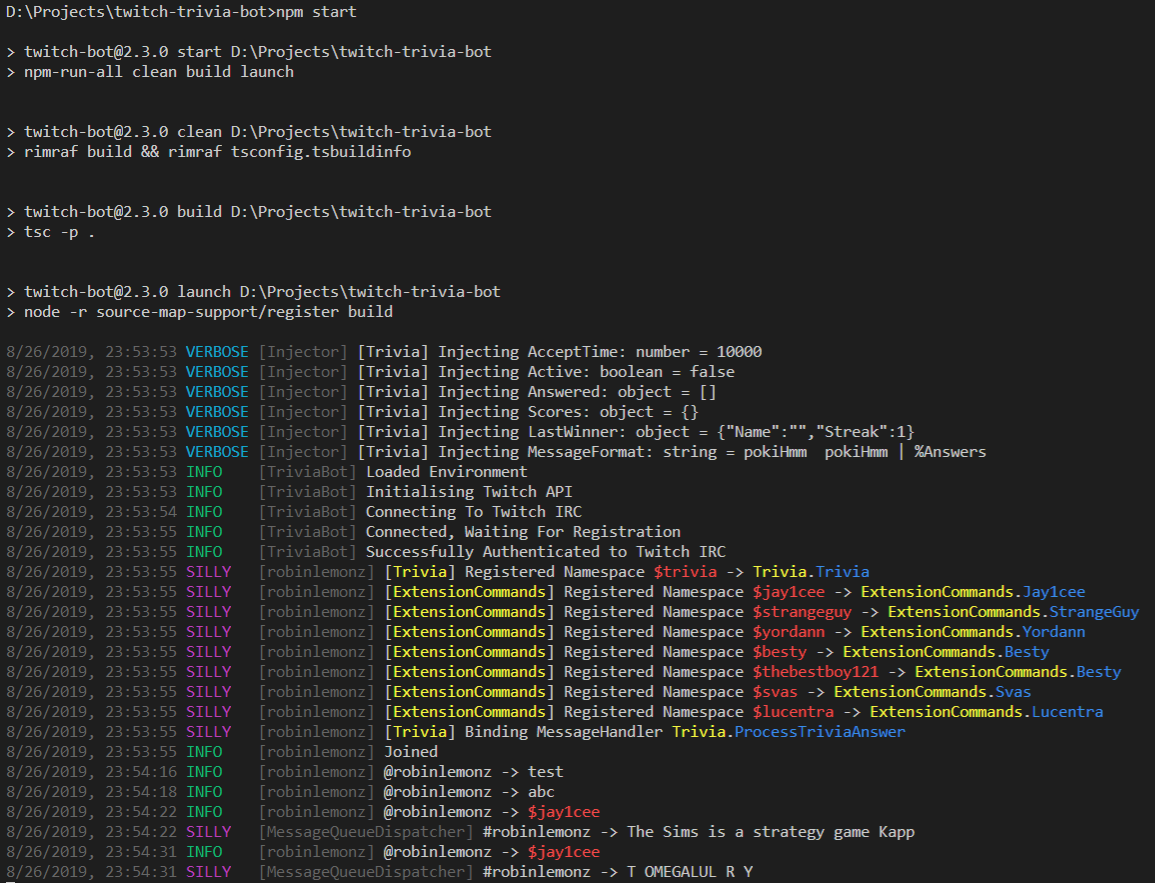
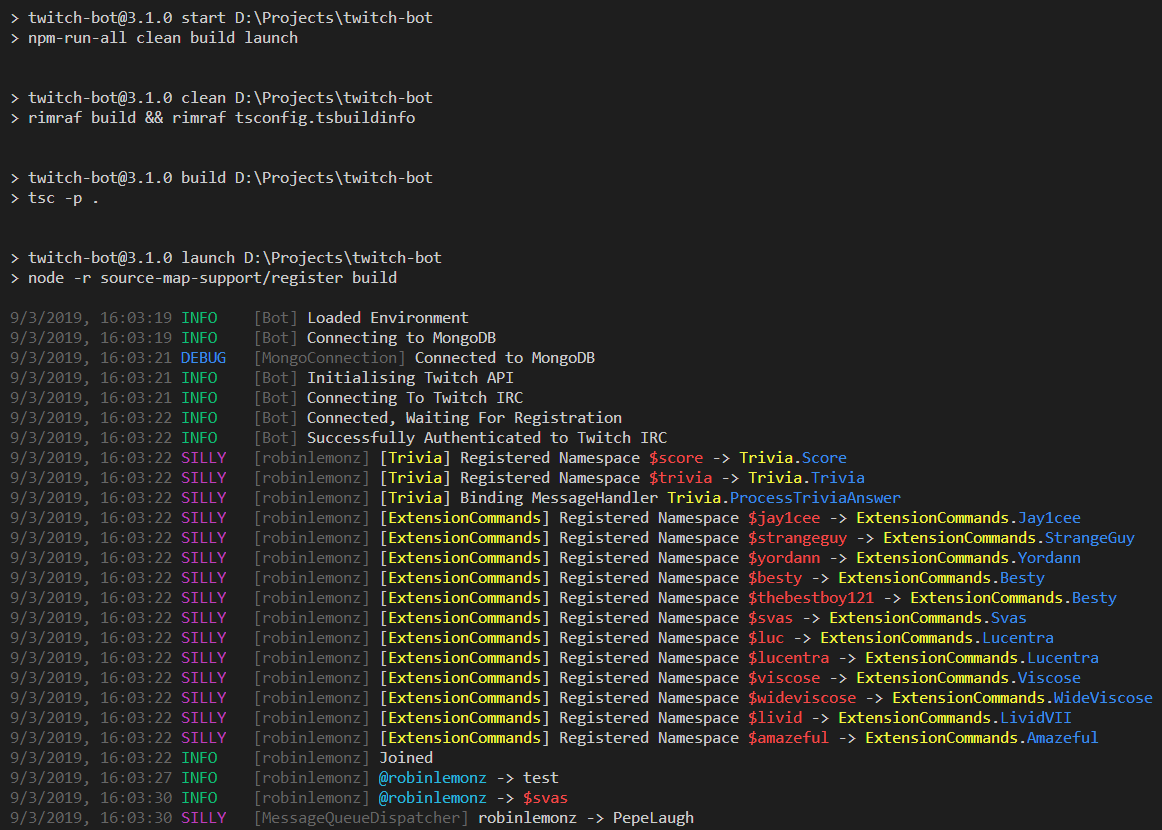
Added MongoDB Support

Changed region(s): [[0.0, 0.3012, 0.9662, 1.0], [0.0, 0.0, 0.4052, 0.1807], [0.0, 0.2108, 0.4052, 0.2711]]

diff --git a/src/Integrations/Trivia/Trivia.service.ts b/src/Integrations/Trivia/Trivia.service.ts
@@ -1,13 +1,15 @@
 import 'reflect-metadata';
 
-import { promises as fs } from 'fs';
+/* eslint-disable-next-line */
+import Logger, { Levels } from '@robinlemon/logger';
 
 import MessageQueueDispatcher from '../../Classes/MessageQueueDispatcher';
 import QuestionCoordinator, { EQuestionCategory, RetryQuestionApi } from '../../Classes/QuestionCoordinator';
-import Command from '../../Decorators/Command';
+import Command, { CommandType } from '../../Decorators/Command';
 import MessageHandler from '../../Decorators/MessageHandler';
 import Common from '../../Utils/Common';
 import Integration from '../index';
+import TriviaUser from './Trivia.model';
 
 type TriviaAnswer = 'a' | 'b' | 'c' | 'd';
 
@@ -28,9 +30,9 @@ class Trivia extends Integration {
         Streak: number;
     } = { Name: '', Streak: 1 };
 
-    protected MessageFormat = 'pokiHmm %Question% pokiHmm | %Answers%';
+    protected MessageFormat = 'monkaHmm %Question% monkaHmm | %Answers%';
 
-    public constructor(protected ChannelName: string, protected MessageHandler: MessageQueueDispatcher) {
+    public constructor(protected ChannelName: string, protected MessageHandler: MessageQueueDispatcher, protected Logger: Logger) {
         super();
     }
 
@@ -39,11 +41,31 @@ class Trivia extends Integration {
     }
 
     @Command({
+        Identifiers: ['score'],
+        IncludeProtoNameAsIdentifier: false,
+        Subscriber: true,
+    })
+    public Score: CommandType = async (_Context, Username) => {
+        try {
+            const Player = await TriviaUser.findOne({ Username });
+
+            if (Player !== null)
+                this.MessageHandler.Send({
+                    Channel: this.ChannelName,
+                    Message: `@${Username} is on ${Player.Score} points! ${Player.Score > 0 ? 'FeelsOkayMan' : 'FeelsBadMan'} Clap`,
+                });
+            else this.MessageHandler.Send({ Channel: this.ChannelName, Message: `@${Username} I couldn't find your score FeelsBadMan` });
+        } catch (Err) {
+            this.Logger.log(Err, Levels.ERROR);
+        }
+    };
+
+    @Command({
         Identifiers: ['trivia'],
         IncludeProtoNameAsIdentifier: false,
         Subscriber: true,
     })
-    public Trivia = async () => {
+    public Trivia: CommandType = async (_Context, _User) => {
         if (this.Active === true) return;
 
         this.Active = true;
@@ -114,8 +136,6 @@ class Trivia extends Integration {
 
     @MessageHandler()
     public ProcessTriviaAnswer = async (User: string, Message: string) => {
-        await fs.writeFile('test.json', JSON.stringify(this, Common.CircularReplacer(), 4));
-
         if (
             this.Active === false ||
             'abcd'.indexOf(Message.toLocaleLowerCase()) === -1 ||
@@ -165,18 +185,39 @@ class Trivia extends Integration {
                 Points += 200;
             }
 
-            this.UpdateScore(User, Points);
+            const NewPoints = await this.UpdateScore(User, Points);
 
-            this.MessageHandler.Send({
-                Channel: this.ChannelName,
-                Message: `@${User} gets ${Points} points${StreakMessage}! You are now on ${this.Scores[User]} points! The answer was ${this.CorrectLetter}. ${this.CorrectAnswer}!`,
-            });
+            if (NewPoints === undefined) {
+                this.MessageHandler.Send({
+                    Channel: this.ChannelName,
+                    Message: `@${User} gets ${Points} points${StreakMessage}! The answer was ${this.CorrectLetter}. ${this.CorrectAnswer}! There was an internal error updating your score profile though FeelsBadMan`,
+                });
+            } else
+                this.MessageHandler.Send({
+                    Channel: this.ChannelName,
+                    Message: `@${User} gets ${Points} points${StreakMessage}! You are now on ${NewPoints} points! The answer was ${this.CorrectLetter}. ${this.CorrectAnswer}!`,
+                });
         } else this.UpdateScore(User, -50);
     };
 
-    public UpdateScore(User: string, Amount: number) {
-        if (typeof this.Scores[User] === 'undefined') this.Scores[User] = Amount;
-        else this.Scores[User] = this.Scores[User] + Amount;
+    private async UpdateScore(Username: string, Amount: number): Promise<undefined | number> {
+        try {
+            const Player = await TriviaUser.findOneAndUpdate(
+                { Username },
+                { Username },
+                {
+                    upsert: true,
+                    new: true,
+                    setDefaultsOnInsert: true,
+                },
+            );
+
+            await Player.UpdateScore(Amount);
+            return Player.Score + Amount;
+        } catch (Err) {
+            this.Logger.log(Err, Levels.ERROR);
+            return undefined;
+        }
     }
 }
 

diff --git a/src/Bot.ts b/src/Bot.ts
@@ -1,11 +1,13 @@
 import Logger from '@robinlemon/logger';
 import Bluebird from 'bluebird';
 import * as fs from 'fs-extra';
+import Path from 'path';
 import TwitchClient from 'twitch';
 import ChatClient from 'twitch-chat-client';
 
-import Channel from './Channel';
+import Channel from './Classes/Channel';
 import MessageQueueDispatcher from './Classes/MessageQueueDispatcher';
+import MongoConnection from './Classes/MongoConnection';
 import { IntegrationList } from './Integrations';
 import { FuncParams, ITokenResponse, ITokenSerialised } from './Utils/Common';
 import { SchemaType } from './Utils/Schema';
@@ -14,8 +16,10 @@ export default class Bot {
     private TwitchClient: TwitchClient;
     private ChatClient: ChatClient;
     private MessageClient: MessageQueueDispatcher;
+    private MongoConnection: MongoConnection;
 
     private Channels = new Map<string, Channel>();
+    private TokenPath: string;
     private TokenInfo: ITokenSerialised;
 
     private Logger = new Logger(this.constructor.name);
@@ -27,8 +31,14 @@ export default class Bot {
             .map(k => k.trim().toLocaleLowerCase())
             .forEach(ChannelName => this.Channels.set(ChannelName, null));
 
+        this.MongoConnection = new MongoConnection(Environment.MongoDBConnectionString);
+
+        this.Logger.log('Connecting to MongoDB');
+        await this.MongoConnection.Initialise();
+
         this.Logger.log('Initialising Twitch API');
-        this.TokenInfo = JSON.parse(await fs.readFile('./tokens.json', 'UTF-8'));
+        this.TokenPath = Path.join(__dirname, '..', Environment.TokenFile);
+        this.TokenInfo = JSON.parse(await fs.readFile(this.TokenPath, 'UTF-8'));
         this.TwitchClient = await TwitchClient.withCredentials(Environment.ClientID, this.TokenInfo.accessToken, undefined, {
             clientSecret: Environment.ClientSecret,
             refreshToken: this.TokenInfo.refreshToken,
@@ -46,7 +56,7 @@ export default class Bot {
         this.Logger.log('Refreshed OAuth Token');
 
         await fs.writeFile(
-            './tokens.json',
+            this.TokenPath,
             JSON.stringify(
                 {
                     accessToken,
@@ -65,7 +75,7 @@ export default class Bot {
     private CreateChannel = (ChannelName: string) => {
         const Instance = new Channel(ChannelName);
 
-        for (const Integration of IntegrationList) Instance.RegisterIntegration(new Integration(ChannelName, this.MessageClient));
+        for (const Integration of IntegrationList) Instance.RegisterIntegration(new Integration(ChannelName, this.MessageClient, Instance.GetLogger()));
         return Instance;
     };
 
@@ -89,15 +99,14 @@ export default class Bot {
             async Channel => {
                 await this.ChatClient.join(Channel);
 
-                this.Logger.SetName(Channel.slice(1).toLowerCase());
+                this.Logger.SetName(this.Channels.get(Channel).GetDisplayName());
                 this.Logger.log('Joined');
                 this.Logger.SetName(this.constructor.name);
             },
             { concurrency: 10 },
         );
 
-    private PrivateMessageHandler: FuncParams<ChatClient, 'onPrivmsg'> = async (Channel, User, Message, _Raw) => {
-        if (this.Channels.has(Channel) === false) return;
-        else this.Channels.get(Channel).OnMessage(User, Message, _Raw);
+    private PrivateMessageHandler: FuncParams<ChatClient, 'onPrivmsg'> = (Channel, User, Message, Raw) => {
+        if (this.Channels.has(Channel) === true) this.Channels.get(Channel).OnMessage(User, Message, Raw);
     };
 }

diff --git a/src/Integrations/ExtensionCommands/ExtensionCommands.service.ts b/src/Integrations/ExtensionCommands/ExtensionCommands.service.ts
@@ -1,12 +1,14 @@
 import 'reflect-metadata';
 
+import Logger from '@robinlemon/logger';
+
 import MessageQueueDispatcher from '../../Classes/MessageQueueDispatcher';
 import Command, { CommandType } from '../../Decorators/Command';
 import Common from '../../Utils/Common';
 import Integration from '../index';
 
 class ExtensionCommands extends Integration {
-    public constructor(protected ChannelName: string, protected MessageHandler: MessageQueueDispatcher) {
+    public constructor(protected ChannelName: string, protected MessageHandler: MessageQueueDispatcher, protected Logger: Logger) {
         super();
     }
 
@@ -90,7 +92,7 @@ class ExtensionCommands extends Integration {
     };
 
     @Command({
-        Identifiers: ['lucentra'],
+        Identifiers: ['luc', 'lucentra'],
         IncludeProtoNameAsIdentifier: false,
         Subscriber: true,
         CtxCreator: () => ({
@@ -143,6 +145,21 @@ class ExtensionCommands extends Integration {
         }),
     })
     public LividVII: CommandType = (Context, _User) => {
+        this.MessageHandler.Send({
+            Channel: this.ChannelName,
+            Message: (Context.Iterator as IterableIterator<string>).next().value,
+        });
+    };
+
+    @Command({
+        Identifiers: ['amazeful'],
+        IncludeProtoNameAsIdentifier: false,
+        Subscriber: true,
+        CtxCreator: () => ({
+            Iterator: Common.CreateNonRepeatingRandomArrayIterator(['5Head Idk']),
+        }),
+    })
+    public Amazeful: CommandType = (Context, _User) => {
         this.MessageHandler.Send({
             Channel: this.ChannelName,
             Message: (Context.Iterator as IterableIterator<string>).next().value,

diff --git a/src/Classes/Channel.ts b/src/Classes/Channel.ts
@@ -4,12 +4,12 @@ import Logger, { Levels } from '@robinlemon/logger';
 import Chalk from 'chalk';
 import ChatClient, { ChatUser } from 'twitch-chat-client';
 
-import PermissionMultiplexer, { EPermissionStatus } from './Classes/PermissionMultiplexer';
-import { CommandType, ContextTransformer, ICommand, ITransformOptions } from './Decorators/Command';
-import { IMessageHandlerMeta, MessageHandlerType } from './Decorators/MessageHandler';
+import { CommandType, ContextTransformer, ICommand, ITransformOptions } from '../Decorators/Command';
+import { IMessageHandlerMeta, MessageHandlerType } from '../Decorators/MessageHandler';
 // eslint-disable-next-line
-import { IntegrationList } from './Integrations';
-import { FuncParams, RemoveFirstParam } from './Utils/Common';
+import { IntegrationList } from '../Integrations';
+import { FuncParams, RemoveFirstParam } from '../Utils/Common';
+import PermissionMultiplexer, { EPermissionStatus } from './PermissionMultiplexer';
 
 export default class Channel {
     private Logger = new Logger();
@@ -24,6 +24,9 @@ export default class Channel {
         this.DisplayName = ChannelName.slice(1).toLowerCase();
         this.Logger.SetName(this.DisplayName);
     }
+
+    public GetDisplayName = (): string => this.DisplayName;
+    public GetLogger = (): Logger => this.Logger;
 
     public RegisterIntegration<T extends (typeof IntegrationList)[number]>(Integration: InstanceType<T>) {
         const InstanceMethods = Object.getOwnPropertyNames(Integration).filter(

diff --git a/src/Classes/MessageQueueDispatcher.ts b/src/Classes/MessageQueueDispatcher.ts
@@ -22,16 +22,11 @@ export abstract class DispatchClient {
 export default class MessageQueueDispatcher {
     private Logger = new Logger(this.constructor.name);
 
-    private MessageClient: ChatClient;
-
     private Queue: IQueueEntry[] = [];
     private LastSelfMessage: number = 0;
-
     private NextDispatch!: NodeJS.Timeout;
 
-    public constructor(MessageClient: ChatClient) {
-        this.MessageClient = MessageClient;
-    }
+    public constructor(private MessageClient: ChatClient) {}
 
     public Send = (Options: IQueueRequest) => {
         const { AwaitFn, Resolve } = this.GenerateDispatchAwaiter();
@@ -42,7 +37,6 @@ export default class MessageQueueDispatcher {
     };
 
     public DetectedSelfMessage = () => (this.LastSelfMessage = Date.now());
-
     public GetDispatchQueueLength = () => this.Queue.length;
 
     private GenerateDispatchAwaiter = () => {
@@ -61,7 +55,7 @@ export default class MessageQueueDispatcher {
         }
 
         const { Channel, Message, Type, Resolve } = this.Queue[0];
-        const Delay = (Type === undefined ? 1000 : 10000) - this.TimeDifference(this.LastSelfMessage);
+        const Delay = (Type === undefined ? 3000 : 10000) - this.TimeDifference(this.LastSelfMessage);
 
         if (Message.length > 500) {
             this.Logger.log(`Message Too Long: Received ${Message.length} Characters`, Levels.ERROR);

diff --git a/src/Classes/MongoConnection.ts b/src/Classes/MongoConnection.ts
@@ -1,0 +1,42 @@
+import Logger, { Levels } from '@robinlemon/logger';
+import { MongoError } from 'mongodb';
+import Mongoose from 'mongoose';
+
+export default class MongoConnection {
+    private Logger = new Logger(this.constructor.name, undefined, Levels.ERROR);
+
+    public constructor(private ConnectionString: string) {}
+
+    public Initialise = async () => {
+        await this.Connect();
+
+        Mongoose.connection.on('error', (Err: MongoError) => {
+            this.Logger.log(Err);
+        });
+
+        Mongoose.connection.on('timeout', (Err: MongoError) => {
+            this.Logger.log(Err);
+            this.Connect();
+        });
+
+        Mongoose.connection.on('close', (Err: MongoError) => {
+            this.Logger.log(Err);
+            this.Connect();
+        });
+    };
+
+    private Connect = async (): Promise<void> => {
+        try {
+            await Mongoose.connect(this.ConnectionString, {
+                useNewUrlParser: true,
+                autoReconnect: true,
+                useFindAndModify: false,
+                useCreateIndex: true,
+            });
+
+            this.Logger.log('Connected to MongoDB', Levels.DEBUG);
+        } catch (Err) {
+            this.Logger.log(Err);
+        }
+    };
+}

diff --git a/src/Integrations/index.ts b/src/Integrations/index.ts
@@ -1,13 +1,15 @@
+import Logger from '@robinlemon/logger';
+
 import MessageClient from '../Classes/MessageQueueDispatcher';
 
 export default abstract class Integration {
     protected abstract ChannelName: string;
     protected abstract MessageHandler: MessageClient;
+    protected abstract Logger: Logger;
 
     public abstract get Identifier(): string;
 }
 
-//import BasicCommandMapping from './BasicCommandMapping';
 import ExtensionCommands from './ExtensionCommands';
 import Trivia from './Trivia';
 

diff --git a/src/Utils/Schema.ts b/src/Utils/Schema.ts
@@ -19,6 +19,10 @@ const Schema = Joi.object().keys({
     TokenFile: Joi.string()
         .default('./tokens.json')
         .description('A file used to store active OAuth access tokens.'),
+    MongoDBConnectionString: Joi.string()
+        .required()
+        .regex(/^mongodb\+srv:\/\/(?:(?:(\w+)?:(\w+)?@)|:?@?)((?:[\w.-])+)(?::(\d+))?(?:\/([\w-]+))?(?:\?([\w-]+=[\w-]+(?:&[\w-]+=[\w-]+)*)?)?$/)
+        .description('The connection string to a mongodb server.'),
 
     /**
      * External
